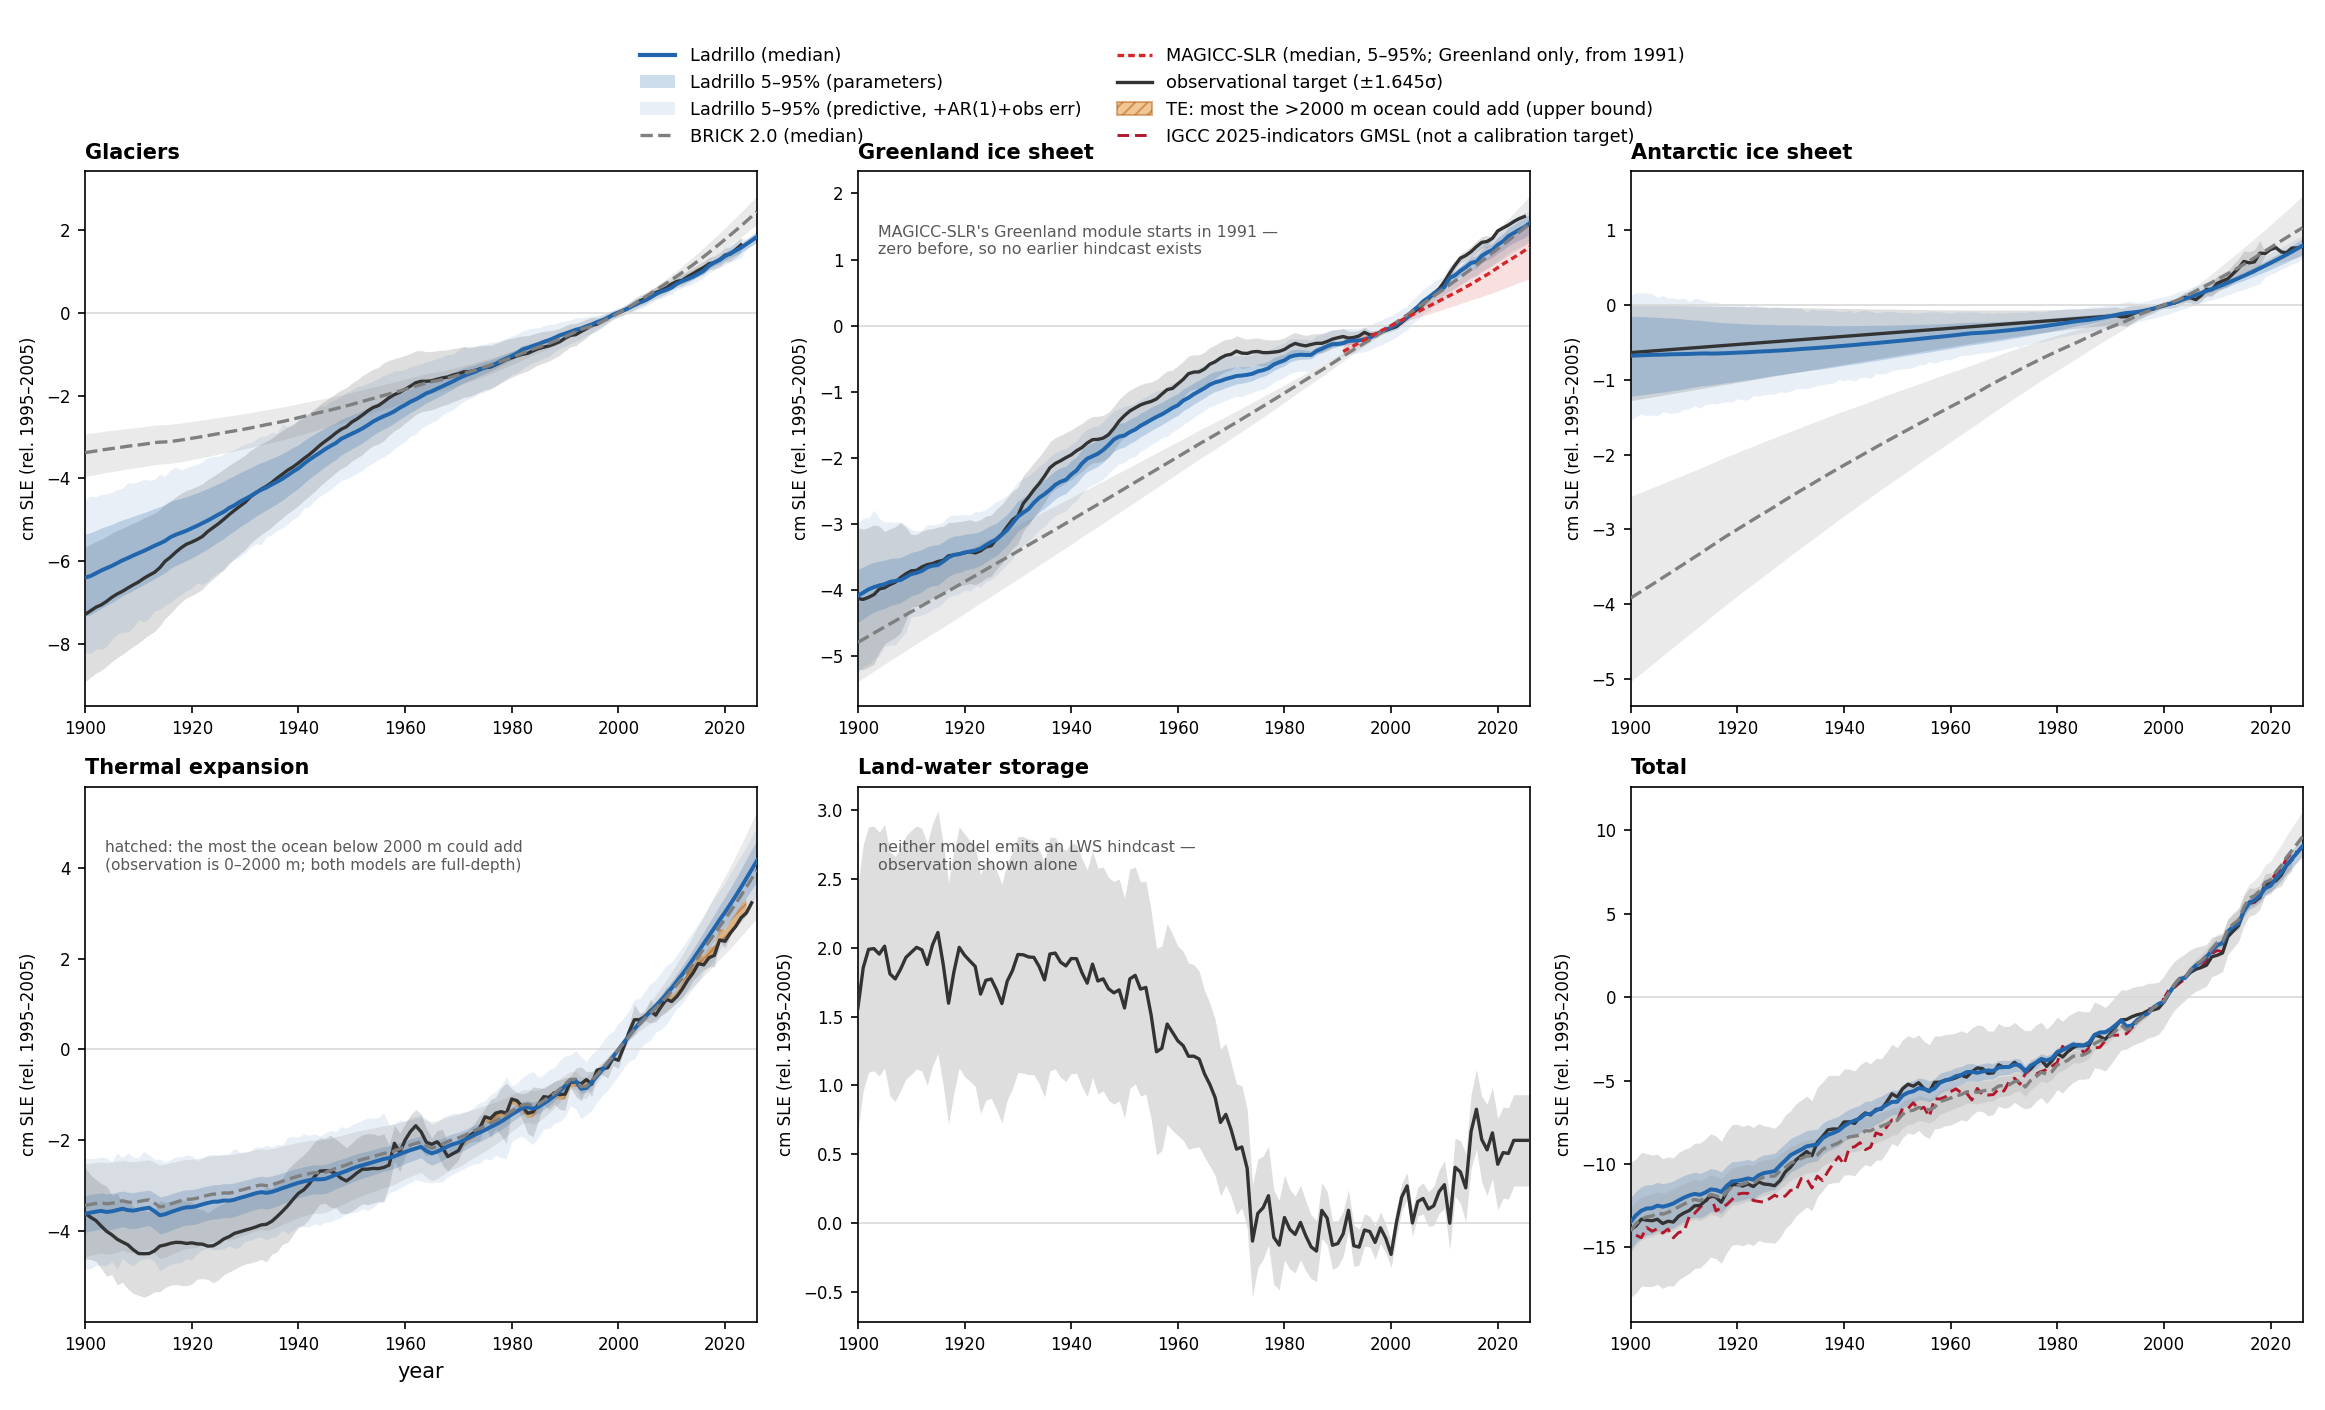
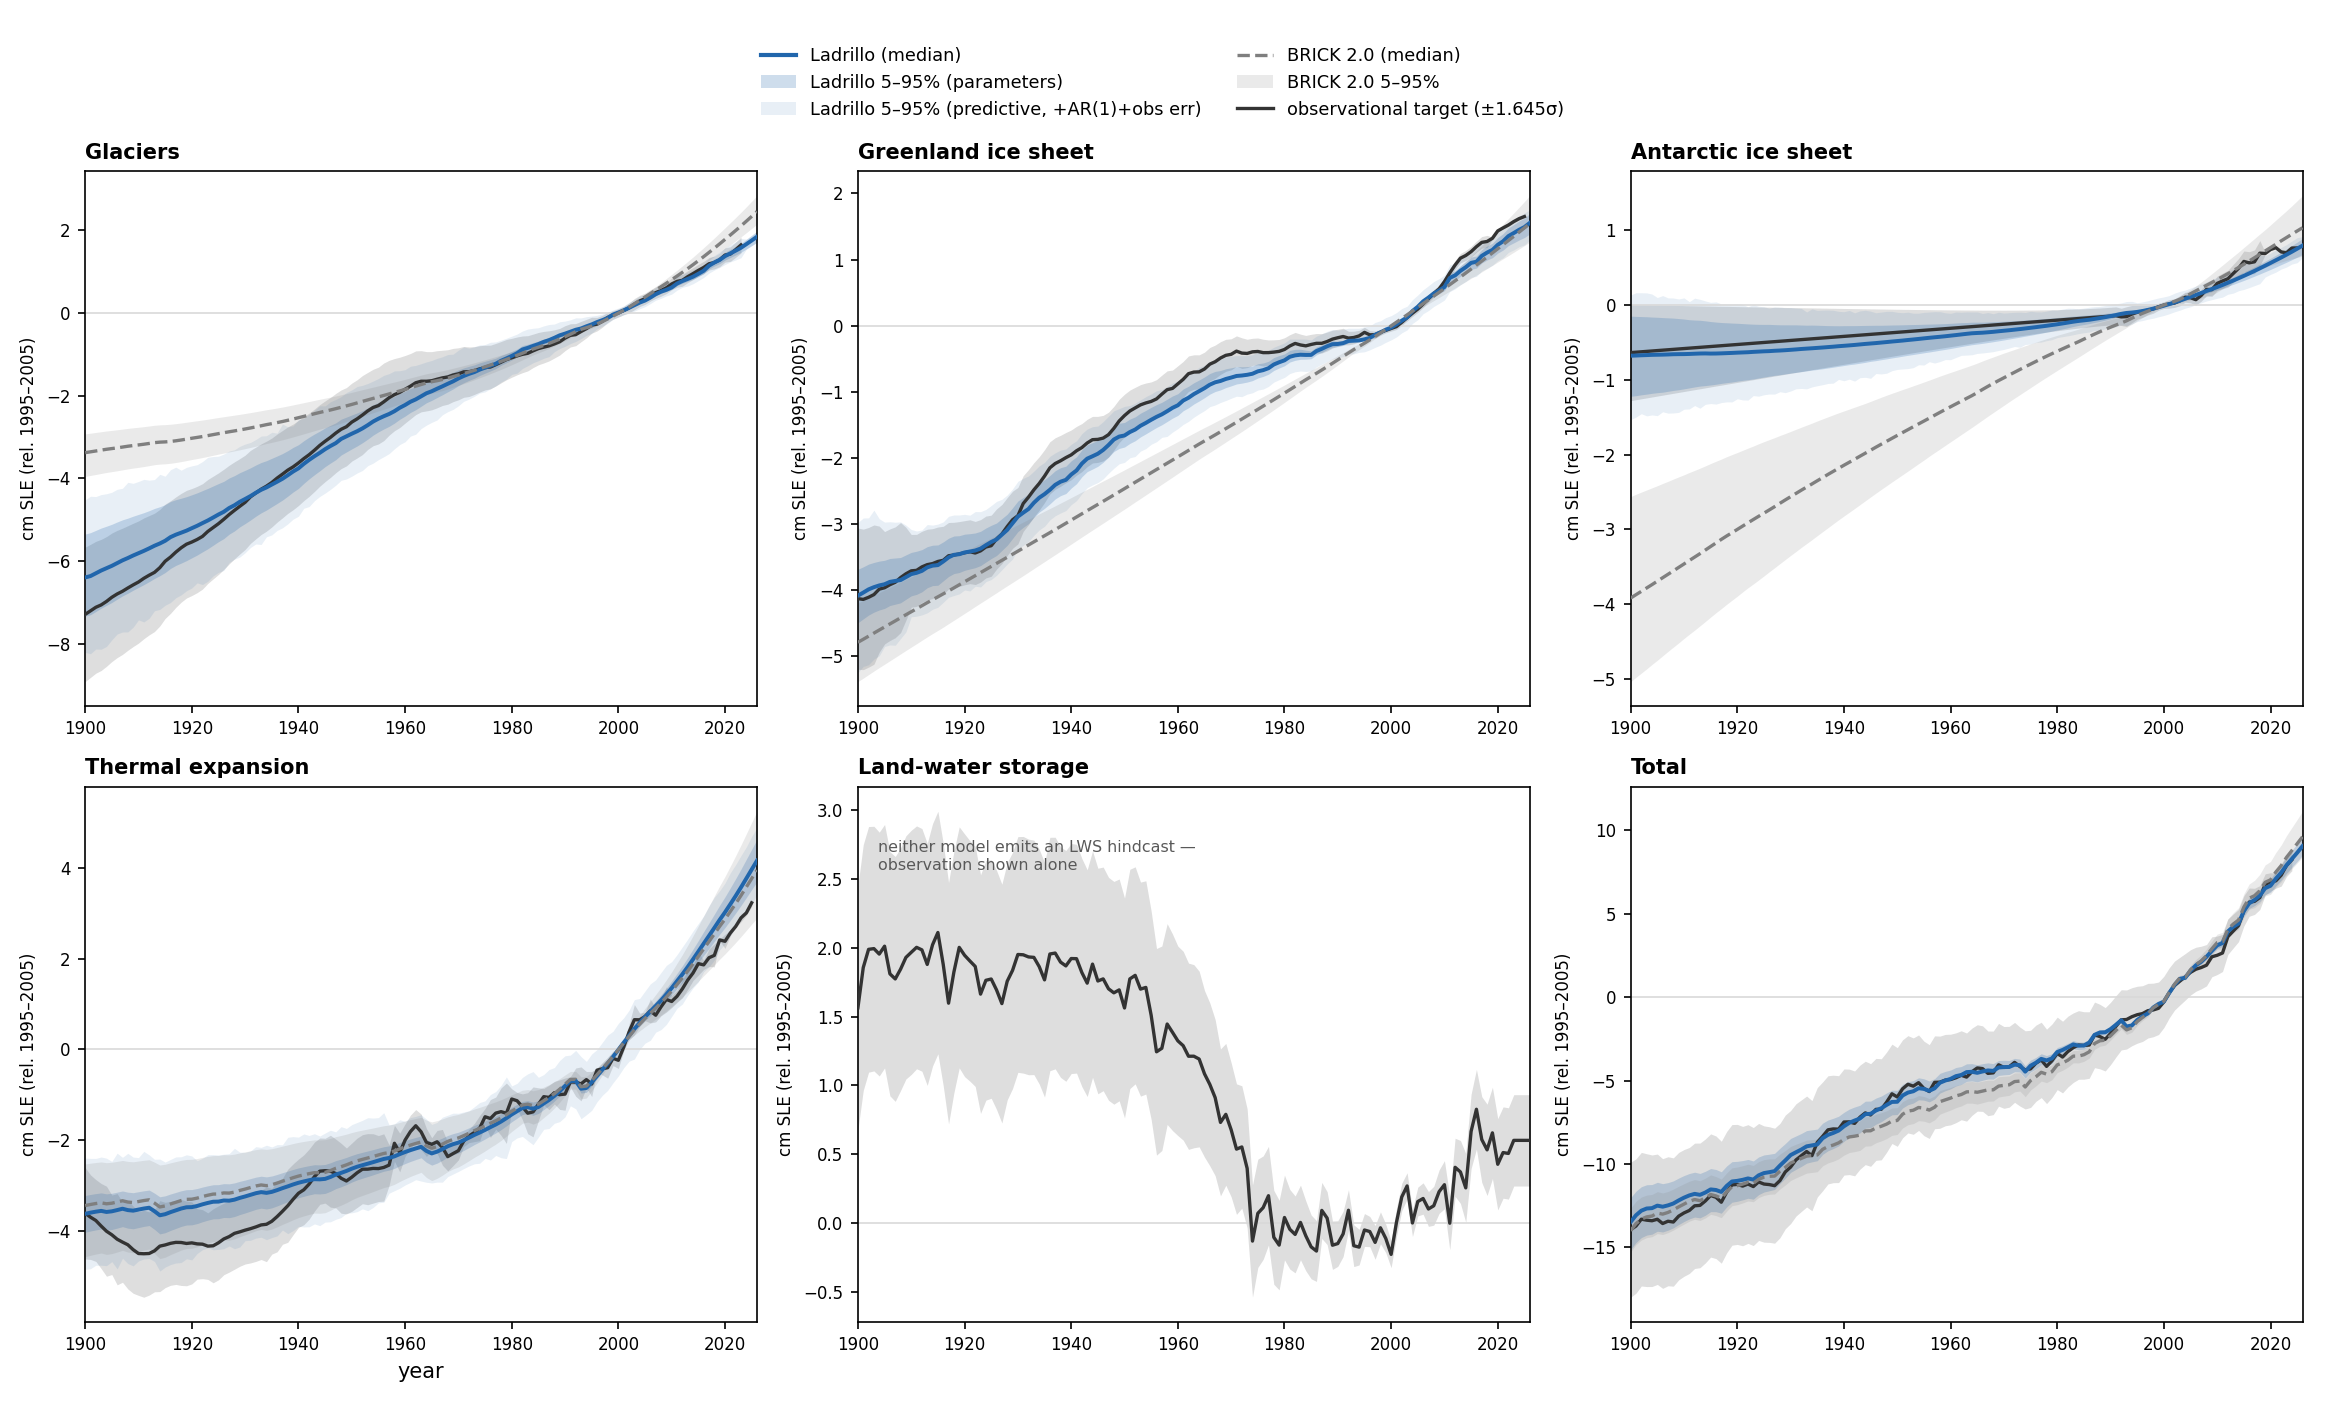
GMD review round: FIG 1 on the right target, without the >2000 m band
FIG 1 is re-rendered for the paper without MAGICC-SLR, the IGCC GMSL
line or the >2000 m band (now opt-in via --deep-band, per Marcus), and
BRICK 2.0's 5-95% band is in the legend it was missing from.

The plot script read the working-tree target, which since 09-21 is the
IMBIE build, so a fresh render would have drawn the wrong Antarctic
observation line for L27. --targets= pins the file; this render uses
HEAD's Frederikse target (md5 070f74ab), and every run now prints the
target's path, md5 and AIS@1900.

The reviewed manuscript (untracked, by design) carries 48 tracked
corrections and 17 comments; CHANGELOG 09-29d lists them. Table 5 was
checked and is correct as printed.

diff --git a/python/plot_hindcast_components.py b/python/plot_hindcast_components.py
@@ -71,7 +71,13 @@ OUT = lf.paper_path(os.path.join(lf.REPO, "figures", "hindcast_components_%s%s.p
 
 LAD_CSV = os.path.join(lf.REPO, "outputs", "postpred_%s_components_timeseries.csv" % TAG)
 BRK_CSV = os.path.join(lf.REPO, "outputs", "postpred_oldbrick_components_timeseries.csv")
-TGT_CSV = os.path.join(lf.REPO, "outputs", "recalib_targets_ext.csv")
+## --targets=<path> (2026-09-29): the component targets to DRAW. The default is the working-tree
+## file, which since 2026-09-21 is the IMBIE-2026 build (for L28+ diagnostics). L27 and earlier were
+## fitted to the Frederikse + GRACE build, i.e. `git show HEAD:outputs/recalib_targets_ext.csv`, so a
+## paper render of L27 must pass that file or its Antarctic observation line is the WRONG TARGET
+## (at 1900: -0.768 IMBIE vs -0.634 Frederikse). The path and md5 are printed on every run.
+TGT_CSV = next((a[len("--targets="):] for a in sys.argv[1:] if a.startswith("--targets=")),
+               os.path.join(lf.REPO, "outputs", "recalib_targets_ext.csv"))
 ## ⭐ IGCC 2025-indicators release (Forster et al. 2026), ingested and provenance-gated by
 ## `python/ingest_igcc2026_gmsl.py` -- read the INGESTED file, not the raw drop, so the
 ## Table 11 check stands between the download and every figure that uses it.
@@ -160,6 +166,10 @@ SHOW_IMBIE = "--imbie" in sys.argv
 ##   the paragraph explaining Ladrillo's TE overshoot, and dropping it would orphan the argument.
 SHOW_MAGICC = "--magicc" in sys.argv
 SHOW_IGCC_GMSL = "--igcc-gmsl" in sys.argv
+## ⚠ THE >2000 m BAND IS NOW OPT-IN TOO (Marcus, 2026-09-29, GMD comment): "the >2000m addition is
+##   too difficult to understand from the chart: I think the text description is sufficient." The
+##   paragraph above therefore no longer relies on it. Kept behind --deep-band, not deleted.
+SHOW_DEEP_BAND = "--deep-band" in sys.argv
 IMBIE_CSV = os.path.join(lf.REPO, "outputs", "diag_imbie2026_vs_targets_%s.csv" % TAG)
 IMBIE_PANELS = {"ais": "AIS", "gis": "GIS"}   # figure component -> the diag file's component label
 
@@ -174,6 +184,9 @@ if CMP and not os.path.exists(CMP_CSV):
 LADC = pd.read_csv(CMP_CSV).set_index("year") if CMP else None
 C_CMP = "#7b3294"                                  # a purple no other source on this figure uses
 TGT = pd.read_csv(TGT_CSV).set_index("year")
+import hashlib
+print("[targets] %s  md5 %s  ais@1900 %+.3f" % (TGT_CSV, hashlib.md5(open(TGT_CSV, "rb").read()).hexdigest()[:8],
+                                              TGT.loc[1900, "ais"]))
 ## MAGICC: long table -> one wide frame per component, columns med/p05/p95, NaN before start.
 _mg = pd.read_csv(MAG_CSV)
 assert (_mg.unit == "cm rel %d-%d" % (BASE0, BASE1)).all(), \
@@ -321,7 +334,7 @@ for ax, comp in zip(axes.ravel(), lf.COMPONENTS):
         obs = corr
     ax.fill_between(obs.index, lo, hi, color=C_OBS, alpha=0.16, lw=0, zorder=1)
     ax.plot(obs.index, obs.values, color=C_OBS, lw=1.6, zorder=4)
-    if comp == "te":
+    if comp == "te" and SHOW_DEEP_BAND:
         yrs = [t for t in DEEP_BOUND.index if t in obs.index and np.isfinite(obs.loc[t])]
         ax.fill_between(yrs, obs.loc[yrs].values, obs.loc[yrs].values + DEEP_BOUND.loc[yrs].values,
                         facecolor="#e08214", edgecolor="#b35806", hatch="////", lw=0, alpha=0.45,
@@ -393,14 +406,16 @@ handles = [Line2D([], [], color=C_LAD, lw=2, label="%s (median)" % DESC["model"]
            ## of this edit did) silently dropped BRICK from the legend while its dashed line was
            ## still drawn on every panel: a legend that omits a drawn series, which is the exact
            ## defect this file already carries a warning about two entries below.
-           Line2D([], [], color=C_BRK, lw=1.6, ls="--", label="BRICK 2.0 (median)")]
+           Line2D([], [], color=C_BRK, lw=1.6, ls="--", label="BRICK 2.0 (median)"),
+           ## drawn on every model panel (fill_between below) but absent from the legend until 09-29
+           Patch(facecolor=C_BRK, alpha=0.16, label="BRICK 2.0 5–95%")]
           + ([Line2D([], [], color=C_MAG, lw=1.6, ls=(0, (2, 1.2)),
                      label="MAGICC-SLR (median, 5–95%%; Greenland only, from %d)" % MAG_START["gis"])]
              if SHOW_MAGICC else [])) + [
            Line2D([], [], color=C_OBS, lw=1.6, label="observational target (±1.645σ)"),
-           Patch(facecolor="#e08214", edgecolor="#b35806", hatch="////", alpha=0.45,
-                 label="TE: most the >2000 m ocean could add (upper bound)"),
-          ] + ([Line2D([], [], color=C_IGCC, lw=1.4, ls=(0, (4, 2)),
+          ] + ([Patch(facecolor="#e08214", edgecolor="#b35806", hatch="////", alpha=0.45,
+                      label="TE: most the >2000 m ocean could add (upper bound)")]
+               if SHOW_DEEP_BAND else []) + ([Line2D([], [], color=C_IGCC, lw=1.4, ls=(0, (4, 2)),
                   label="IGCC 2025-indicators GMSL (not a calibration target)")] if SHOW_IGCC_GMSL else []) + (
           ## ⛔ A DRAWN SERIES MUST BE IN THE LEGEND. This entry was missing on the first build and
           ## the ice-sheet panels carried an unexplained purple line — which is also the "secondary
@@ -435,9 +450,9 @@ _cap = (
        "comparison vintage.  " % (CMP, CMP_DESC["model"], TAG) if CMP else
        ("MAGICC-SLR (v7.5.3 + Nauels 2025) is drawn on the Greenland panel from 1991, on its own "
         "climate.  " if SHOW_MAGICC else ""))
-    + "Thermal expansion: the hatched band above the observation is the most the ocean "
-    "below 2000 m could add (IGCC deep-ocean heat × the observed upper-ocean expansion "
-    "coefficient), drawn over 1971–2024.")
+    + ("Thermal expansion: the hatched band above the observation is the most the ocean "
+       "below 2000 m could add (IGCC deep-ocean heat × the observed upper-ocean expansion "
+       "coefficient), drawn over 1971–2024." if SHOW_DEEP_BAND else ""))
 _cap = _cap.replace("@@X0@@", str(X0))          # derived from the constant, not retyped
 assert "@@" not in _cap, "caption sentinel left unsubstituted"
 if not lf.PAPER:

diff --git a/CHANGELOG.md b/CHANGELOG.md
@@ -1,3 +1,58 @@
+## 2026-09-29d — GMD review round: 48 tracked edits, 17 comments, FIG 1 re-rendered
+
+`deliverables/GMD.Ladrillo.v1_review-2026-09-29_L27.docx`, built on Marcus's 09-29 11:12 save of
+`…09-28b_L27_otosaka.docx`. That save had every tracked change resolved and 6 comments open. The
+base file is untouched. Three read-only agents traced ~90 numerical claims to L27 outputs; every
+edit is tracked under "Claude" (validated with `--author`), and pandoc's accepted view was checked
+independently.
+
+**FIG 1** (Marcus's comments #1, #2): re-rendered with `--paper`. MAGICC-SLR and the IGCC GMSL line
+were already opt-in; the **>2000 m band is now opt-in too** (`--deep-band`). BRICK 2.0's 5–95% band
+was drawn but missing from the legend, and is now in it. ⛔ **The plot script read the working-tree
+target, which is the IMBIE build**: a fresh render would have drawn the wrong Antarctic observation
+(−0.768 vs −0.634 at 1900). Added `--targets=`, and rendered on `git show HEAD:` (md5 070f74ab,
+Frederikse). The script now prints the target's path, md5 and AIS@1900 on every run.
+
+**Corrections made (tracked):**
+- Greenland timescales 50/170 yr were **L24's**. L27 is 109 yr (62–191) SMB and 289 yr (142–663)
+  discharge, active basin, recomputed from the subsample.
+- BRICK 2.0's TE prior is Uniform(0.05, 0.3), the same as Ladrillo's. The quoted N(0.16, 0.029) is
+  its posterior.
+- The Greenland amplification prior width comes from three observational products, not the CMIP6
+  spread (text and Table 3).
+- The tap is whole-sheet, not on the high basin. γ is 2.83. "Four Antarctic changes … the three" is
+  now five and four.
+- Run time: ~7 ms per iteration and ~4 h, not 1–2 ms and 3 h. The test suite does not contain the
+  byte-identity or hindcast checks the text claimed.
+- 0.002 W/m² was misattributed and is deleted.
+- The Rignot ±505 is the pre-term diagnostic, not L27.
+- Two refits became one: L27b is not the same objective.
+- R19's GlaMBIE rate is weak because of our serially-correlated σ, not gravimetry: GlaMBIE r19 has no
+  gravimetry input.
+- The IMBIE-paragraph snowfall explanation had the wrong sign. The deficit accrues 1979–2017 and
+  mirrors the target.
+- Glacier ratio 1.3x, not 1.4x.
+- FACTS TE is proportional to OHC, not two-layer (matches Table 2 and the FACTS code).
+- FACTS land-water storage is also drawn at 2300.
+- FIG 5 regrowth is ~0.1 cm on vvLN and vvML, fixed arm.
+- The FittedISMIP 47 → 112 cm is two settings, not a trajectory.
+- MP25's 2300 is an extrapolation.
+- The discrepancy basis is orthogonal to a constant AND the OHC shape (the text had each half in a
+  different place).
+- Comment #3: glaciers 1950–92 are not within 0.1 cm (0.23 vs 0.13).
+- Comment #4: the band sentence and the unsupported "within 4% in every era" are deleted.
+
+**Left as comments** (judgment calls): the 7.9–31.9× literature range (endpoint division; matched
+median 6.40×), mixed arms in the Greenland paragraphs, the amp-leverage definition (OLS 57 cm vs
++1σ median 17.9), the Greenland warming dates, the Leclercq envelope vs the --no-ledger score, the
+IGCC rate (0.399 OLS vs 0.367 endpoint), the duplicate sampler text, stale FIG 4/5 media, and a
+reference audit.
+
+⭐ **Table 5 is CORRECT and was not touched.** Memory had recorded ΔBIC +20.8 as "retracted" in
+favour of +9.1. That was backwards for the paper. +9.1 is L27 rescored on the IMBIE target, built
+so L27 and L32 would share one ruler. The paper compares L27 with BRICK 2.0 on L27's own Frederikse
+target: `3b5bbce`, 09-20 19:29, before the 09-21 13:12 rebuild. Re-derived independently to 0.01.
+
 ## 2026-09-29c — `build_gmd_otosaka.py` can no longer rebuild over a review
 
 **Why:** on 09-28 Marcus reviewed the first Otosaka build. He accepted changes, deleted comments, and
